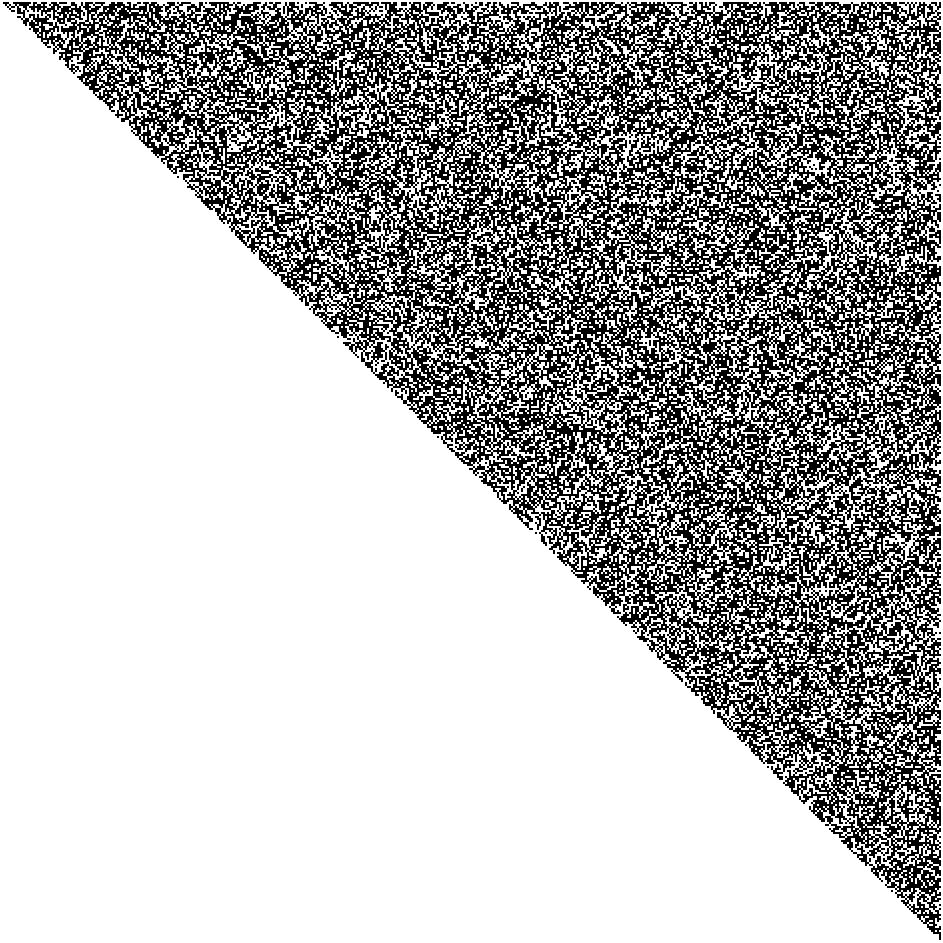
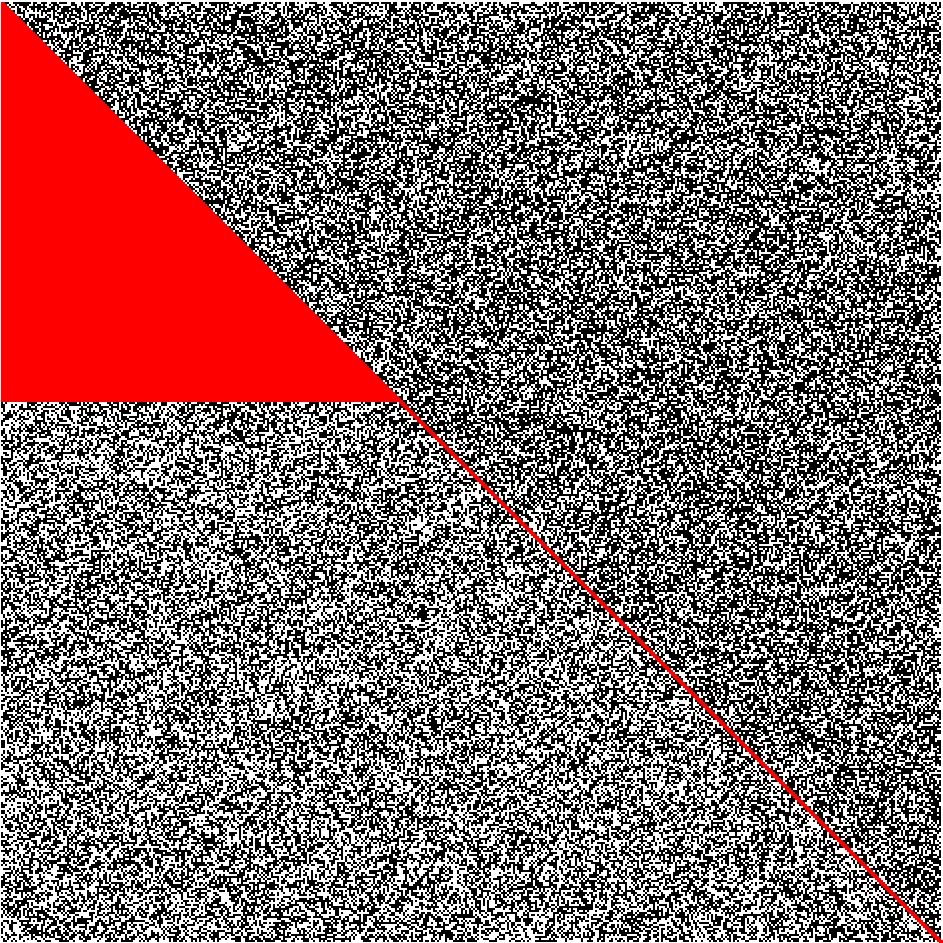
adapted instructions, but blurry images

Changed region(s): [[0.0, 0.0, 1.0, 1.0]]

diff --git a/tutorial/tutorial_pages_generation.js b/tutorial/tutorial_pages_generation.js
@@ -39,55 +39,47 @@ const instructionsObject = {
     26: ["...we obtain another different triangle (remember that you can flick through the images using the arrows).", "26_swapped_triangular_chessboard_N20_1_secondSwap"],
     27: ["Switching the two rows and columns transforms the initial triangle.", "27_20nodes_triangular_secondSwap"],
 
-    // horizontal - vertical transition 
-    // first switch 
-    28: ["The same triangle can also be represented vertically.", "28_vertical_standard_triangular_chessboard_N20_1_firstSwap"],
-    29: ["We can transform a vertical triangle similarly: if we switch these two rows and columns...", "29_vertical_highlighted_triangular_chessboard_N20_1_firstSwap"],
-    30: ["...we obtain a different triangle (remember that you can flick through the images using the arrows).", "30_vertical_swapped_triangular_chessboard_N20_1_firstSwap"],
-    31: ["Switching two rows and columns transforms the initial triangle.", "31_20nodes_vertical_firstSwap"],
-    // second switch:     
-    32: ["Let's consider now a flipped version of the initial vertical triangle.", "32_vertical_standard_triangular_chessboard_N20_1_secondSwap"],
-    33: ["Again, if we switch two rows and columns...", "33_vertical_highlighted_triangular_chessboard_N20_1_secondSwap"],
-    34: ["...we obtain a different triangle (remember that you can flick through the images using the arrows).", "34_vertical_swapped_triangular_chessboard_N20_1_secondSwap"],
-    35: ["Also in this case, switching two rows and columns transforms the initial triangle.", "35_20nodes_vertical_secondSwap"],
-
     // spreading clique (color coded)    
     // N20_K14 (regular checkerboard - progression)
-    36: ["Now let's imagine we have a triangular chessboard where some tiles are colored in red.", "36_N20_K14_regular_1standard"],
-    37: ["If we switch two rows and columns as we have seen before, some red tiles change their location in the triangle.", "37_N20_K14_regular_swap1"],
-    38: ["If we make another switch, some other tiles change their location in the triangle.", "38_N20_K14_regular_swap2"],
-    39: ["With a third switch, they keep moving.", "39_N20_K14_regular_swap3"],
-    40: ["If we perform many switches, the red tiles spread inside the triangle, and they look like this.", "40_N20_K14_regular_visualization5_shuffled"],
-    41: ["Repeating switches of rows and columns shuffles the initial triangle.<br>A <b>shuffle</b> is the transformation from a standard triangle to its shuffled version, obtained by repeating switches of rows and columns.", "41_N20_K14_progression"],
+    28: ["Now let's imagine we have a triangular chessboard where some tiles are colored in red.", "28_N20_K14_regular_progression_standard"],
+    29: ["If we switch two rows and columns as we have seen before, some red tiles change their location in the triangle.", "29_N20_K14_regular_progression_swap1"],
+    30: ["If we make another switch, some other tiles change their location in the triangle.", "30_N20_K14_regular_progression_swap2"],
+    31: ["With a third switch, they keep moving.", "31_N20_K14_regular_progression_swap3"],
+    32: ["If we perform many switches, the red tiles spread inside the triangle, and they look like this.", "32_N20_K14_regular_progression_shuffled"],
+    33: ["Repeating switches of rows and columns shuffles the initial triangle.<br>A <b>shuffle</b> is the transformation from a standard triangle to its shuffled version, obtained by repeating switches of rows and columns.", "33_N20_K14_regular_progression_arrows"],
     // N20_K14 (irregular chessboard)
-    42: ["It is also possible to shuffle triangles where the black and white tiles are not regular.", "42_N20_K14_irregular_standard"],
-    43: ["This is how a shuffle of the previous triangle looks like (remember that you can flick through the images using the arrows).", "43_N20_K14_irregular_shuffled"],
-    44: ["Also in this case, a <b>shuffle</b> is the transformation from an ordered triangle (left) to an unordered one (right), obtained by repeating switches of rows and columns.", "44_N20_K14_sidebyside"],
+    34: ["It is also possible to shuffle triangles where the black and white tiles are not regular.", "34_N20_K14_irregular_grouped"],
+    35: ["This is how a shuffle of the previous triangle looks like (remember that you can flick through the images using the arrows).", "35_N20_K14_irregular_shuffled"],
+    36: ["Also in this case, a <b>shuffle</b> is the transformation from an ordered triangle (left) to an unordered one (right), obtained by repeating switches of rows and columns.", "36_N20_K14_sidebyside"],
     // N80_K30
-    45: ["Let's see an example of a <b>shuffle</b> in a triangle that has more tiles.", "45_N80_K30_grouped"],
-    46: ["This is how a shuffle of the previous triangle looks like (remember that you can flick through the images using the arrows).", "46_N80_K30_shuffled"],
-    47: ["Again, a <b>shuffle</b> is the transformation from an ordered triangle (left) to an unordered one (right), as shown before.", "47_N80_K30_sidebyside"],
+    37: ["Let's see an example of a <b>shuffle</b> in a triangle that has more tiles.", "37_N80_K30_grouped"],
+    38: ["This is how a shuffle of the previous triangle looks like (remember that you can flick through the images using the arrows).", "38_N80_K30_shuffled"],
+    39: ["Again, a <b>shuffle</b> is the transformation from an ordered triangle (left) to an unordered one (right), as shown before.", "39_N80_K30_sidebyside"],
     // N160_K70
-    48: ["Let's see an example of a <b>shuffle</b> in a triangle having even more tiles.", "48_N160_K70_grouped"],
-    49: ["This is how a shuffle of the previous triangle looks like (remember that you can flick through the images using the arrows).", "49_N160_K70_shuffled"],
-    50: ["Again, a <b>shuffle</b> is the transformation from an ordered triangle (left) to an unordered one (right), as shown before.", "50_N160_K70_sidebyside"],
-    // N300_K120
-    51: ["Let's see one last example of a <b>shuffle</b> in a triangle having even more tiles. Triangles in the experiment will look like this.", "51_N300_K120_grouped"],
-    52: ["This is how a shuffle of the previous triangle looks like (remember that you can flick through the images using the arrows).", "52_N300_K120_shuffled"],
-    53: ["Again, a <b>shuffle</b> is the transformation from an ordered triangle (left) to an unordered one (right), as shown before.", "53_N300_K120_sidebyside"],
-    // single - paired stimuli transition (N=300):
-    // N300_K160
-    54: ["During the experiment, you will see two triangles next to each other:<br>one on the <b>left</b>...", "54_N300_K160_grouped_red_1"],
-    55: ["...and one on the <b>right</b>.<br>One of the triangles contains some red tiles: in this case, the <b>left</b> one does.", "55_N300_K160_grouped_red"],
-    56: ["Let's <b>shuffle</b> both triangles: <br>as we have seen before, the red tiles spread inside the left one.", "56_N300_K160_shuffled_red"],
-    57: ["Now let's change the color of the <b>red tiles to black</b>: this is what you will see during the experiment.<br>Your task is to indicate which of the two triangles contained a group of red tiles before the shuffle and the color change.", "57_N300_K160_shuffled_black"],
-    58: ["In this case, the correct answer is <b>left</b>. <br>Move on to see another example.", "58_N300_K160_correct_response"],
-    // N300_K110    
-    59: ["During the experiment, you will see two triangles:<br>one on the <b>left</b>...", "59_N300_K110_grouped_red_1"],
-    60: ["...and one on the <b>right</b>.<br>In this case, the <b>right</b> triangle contains the red tiles, while the left one does not.", "60_N300_K110_grouped_red"],
-    61: ["As we did before, let's <b>shuffle</b> the two triangles: <br> the red tiles spread inside the right one.", "61_N300_K110_shuffled_red"],
-    62: ["If we now turn the <b>red tiles to black</b>, we see the stimuli as they will appear during the experiment.<br>Which of the two triangles contained the group of red tiles before the shuffle and the color change?", "62_N300_K110_shuffled_black"],
-    63: ["In this case, the right one did, so the correct answer is <b>right</b>. <br> Move on to end the instructions phase: if you do so, <b>it will not be possible to go back to the instructions</b>.", "63_N300_K110_correct_response"],
+    40: ["Let's see an example of a <b>shuffle</b> in a triangle having even more tiles.", "40_N160_K70_grouped"],
+    41: ["This is how a shuffle of the previous triangle looks like (remember that you can flick through the images using the arrows).", "41_N160_K70_shuffled"],
+    42: ["Again, a <b>shuffle</b> is the transformation from an ordered triangle (left) to an unordered one (right), as shown before.", "42_N160_K70_sidebyside"],
+    // N350_K120
+    43: ["Let's see an example of a <b>shuffle</b> in a triangle having even more tiles.", "43_N350_K120_grouped"],
+    44: ["This is how a shuffle of the previous triangle looks like (remember that you can flick through the images using the arrows).", "44_N350_K120_shuffled"],
+    45: ["Again, a <b>shuffle</b> is the transformation from an ordered triangle (left) to an unordered one (right), as shown before.", "45_N350_K120_sidebyside"],
+    // N470_K130
+    46: ["Let's see one last example of a <b>shuffle</b> in a triangle having even more tiles. Triangles in the experiment might have more tiles or less tiles than this one.", "46_N470_K130_grouped"],
+    47: ["This is how a shuffle of the previous triangle looks like (remember that you can flick through the images using the arrows).", "47_N470_K130_shuffled"],
+    48: ["Again, a <b>shuffle</b> is the transformation from an ordered triangle (left) to an unordered one (right), as shown before.", "48_N470_K130_sidebyside"],
+    // single - paired stimuli transition (N=470):
+    // N470_K200
+    49: ["During the experiment, you will see two triangles next to each other:<br>one on the <b>left</b>...", "49_N470_K200_grouped_red_1"],
+    50: ["...and one on the <b>right</b>.<br>One of the triangles contains some red tiles: in this case, the <b>left</b> one does.", "50_N470_K200_grouped_red_2"],
+    51: ["Let's <b>shuffle</b> both triangles: <br>as we have seen before, the red tiles spread inside the left one.", "51_N470_K200_shuffled_red"],
+    52: ["Now let's change the color of the <b>red tiles to black</b>: this is what you will see during the experiment.<br>Your task is to indicate which of the two triangles contained a group of red tiles before the shuffle and the color change.", "52_N470_K200_shuffled_BW"],
+    53: ["In this case, the correct answer is <b>left</b>. <br>Move on to see another example.", "53_N470_K200_shuffled_BW_correct_response"],
+    // N470_K150    
+    54: ["During the experiment, you will see two triangles:<br>one on the <b>left</b>...", "54_N470_K150_grouped_red_1"],
+    55: ["...and one on the <b>right</b>.<br>In this case, the <b>right</b> triangle contains the red tiles, while the left one does not.", "55_N470_K150_grouped_red_2"],
+    56: ["As we did before, let's <b>shuffle</b> the two triangles: <br> the red tiles spread inside the right one.", "56_N470_K150_shuffled_red"],
+    57: ["If we now turn the <b>red tiles to black</b>, we see the stimuli as they will appear during the experiment.<br>Which of the two triangles contained the group of red tiles before the shuffle and the color change?", "57_N470_K150_shuffled_BW"],
+    58: ["In this case, the right one did, so the correct answer is <b>right</b>. <br> Move on to end the instructions phase: if you do so, <b>it will not be possible to go back to the instructions</b>.", "58_N470_K150_shuffled_BW_correct_response"],
 }
 
 
@@ -109,10 +101,10 @@ function generateInstructionsPages() {
     `
     instructionsPagesArray.push(firstHTML)
 
-    // from second instruction page on (adding max-width property to avoid large images to exit the screen):
+    // from second instruction page on:
     for (let index = 1; index < Object.keys(instructionsObject).length; index++) {
         let singleHTML = `<font size="+2"><b> INSTRUCTIONS </b></font><br><br>
-        <img src="tutorial/instructions_images/${instructionsObject[index + 1][1]}.PNG" alt="Could not upload image" max-width: "${currentExperiment.canvasDimensions[1]}" height="${currentExperiment.canvasDimensions[0] / 2}" ><br><br>
+        <img src="tutorial/instructions_images/${instructionsObject[index + 1][1]}.PNG" alt="Could not upload image" height="${currentExperiment.canvasDimensions[0] / 2}" ><br><br>
         ${instructionsObject[index + 1][0]}<br><br>
         <i><b>< Press left arrow to go back <br></b></i>
         <i><b>Press right arrow to go forward ></b></i>

diff --git a/index.html b/index.html
@@ -203,7 +203,6 @@
 
 
         /* INSTRUCTIONS */
-        /*
         // PRELOADING instructions images:
         // calling function to create filepaths for all instructions images
         let instructions_ImagesArray = createArrayOfFilePaths(instructionsObject, 0)
@@ -225,7 +224,6 @@
 
 
         /* AGREEMENT TO MOVE TO TASK FAMILIARIZATION */
-        /*
         let move_to_familiarization_form = {
             type: jsPsychInstructions,
             pages: [`<p> Now it's your turn! <br>
